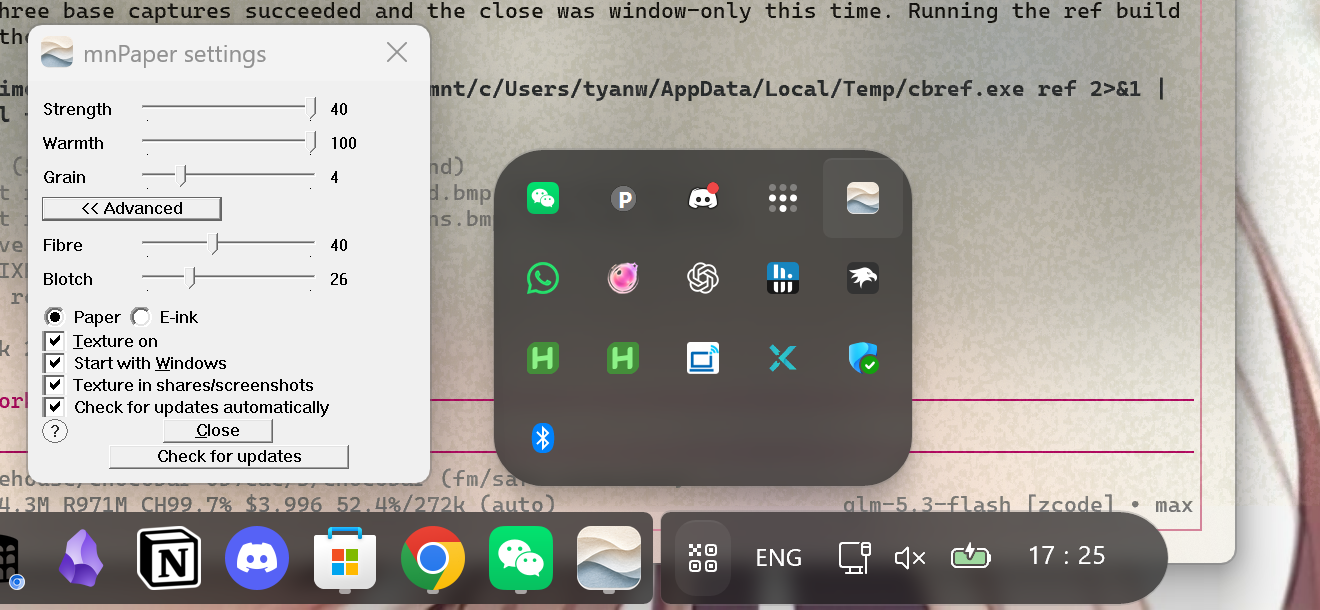
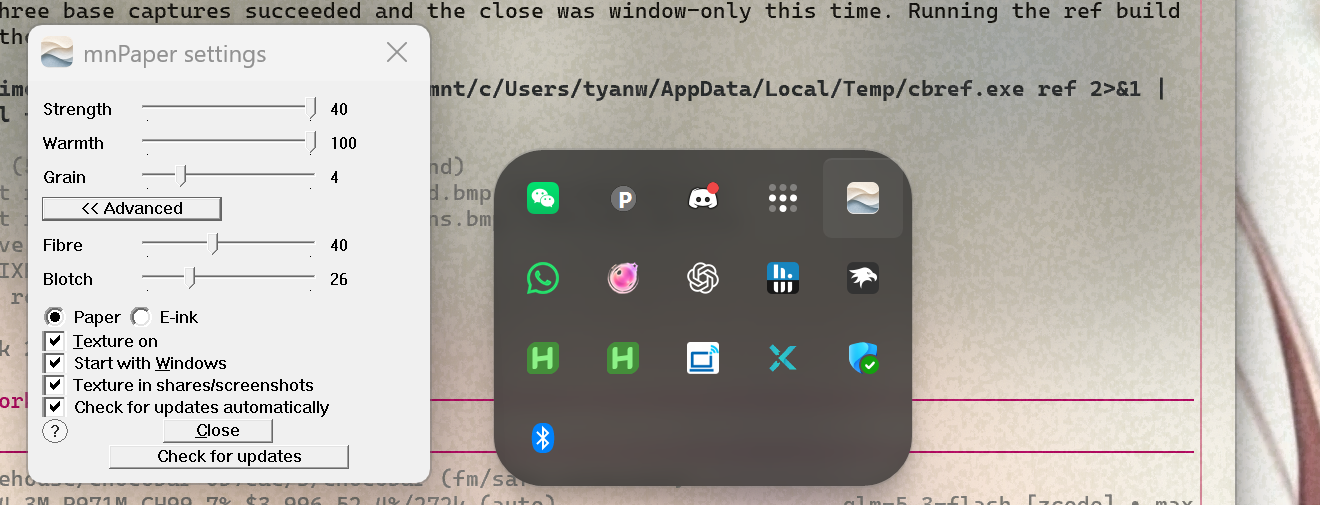
README: crop the taskbar band out of the settings screenshot
The old asset showed the hole-era taskbar (crisp pills with textured
gaps), which no longer exists: Not cover now lifts the whole revealed
bar above the veil, so there are no textured taskbar gaps to show. The
dialog-over-texture half of the image is still accurate, so keep that
and crop the taskbar band off; the caption now describes only what the
image shows. A fresh capture with the taskbar needs an unlocked
session.

diff --git a/README.md b/README.md
@@ -10,7 +10,7 @@ Currently Windows only. Local, lightweight and free. Download `mnPaper.exe` from
 
 ![Reading a PDF under the texture](assets/screenshot-pdf.png)
 
-![The settings window and a revealed taskbar lifted above the texture in Not cover mode](assets/screenshot-gui-taskbar.png)
+![The settings window floating above the texture](assets/screenshot-gui-taskbar.png)
 
 Expected usage: **paper mode** - roughly 40 MB per monitor (the texture is
 kept in memory at full resolution), near-zero CPU when nothing is changing,
